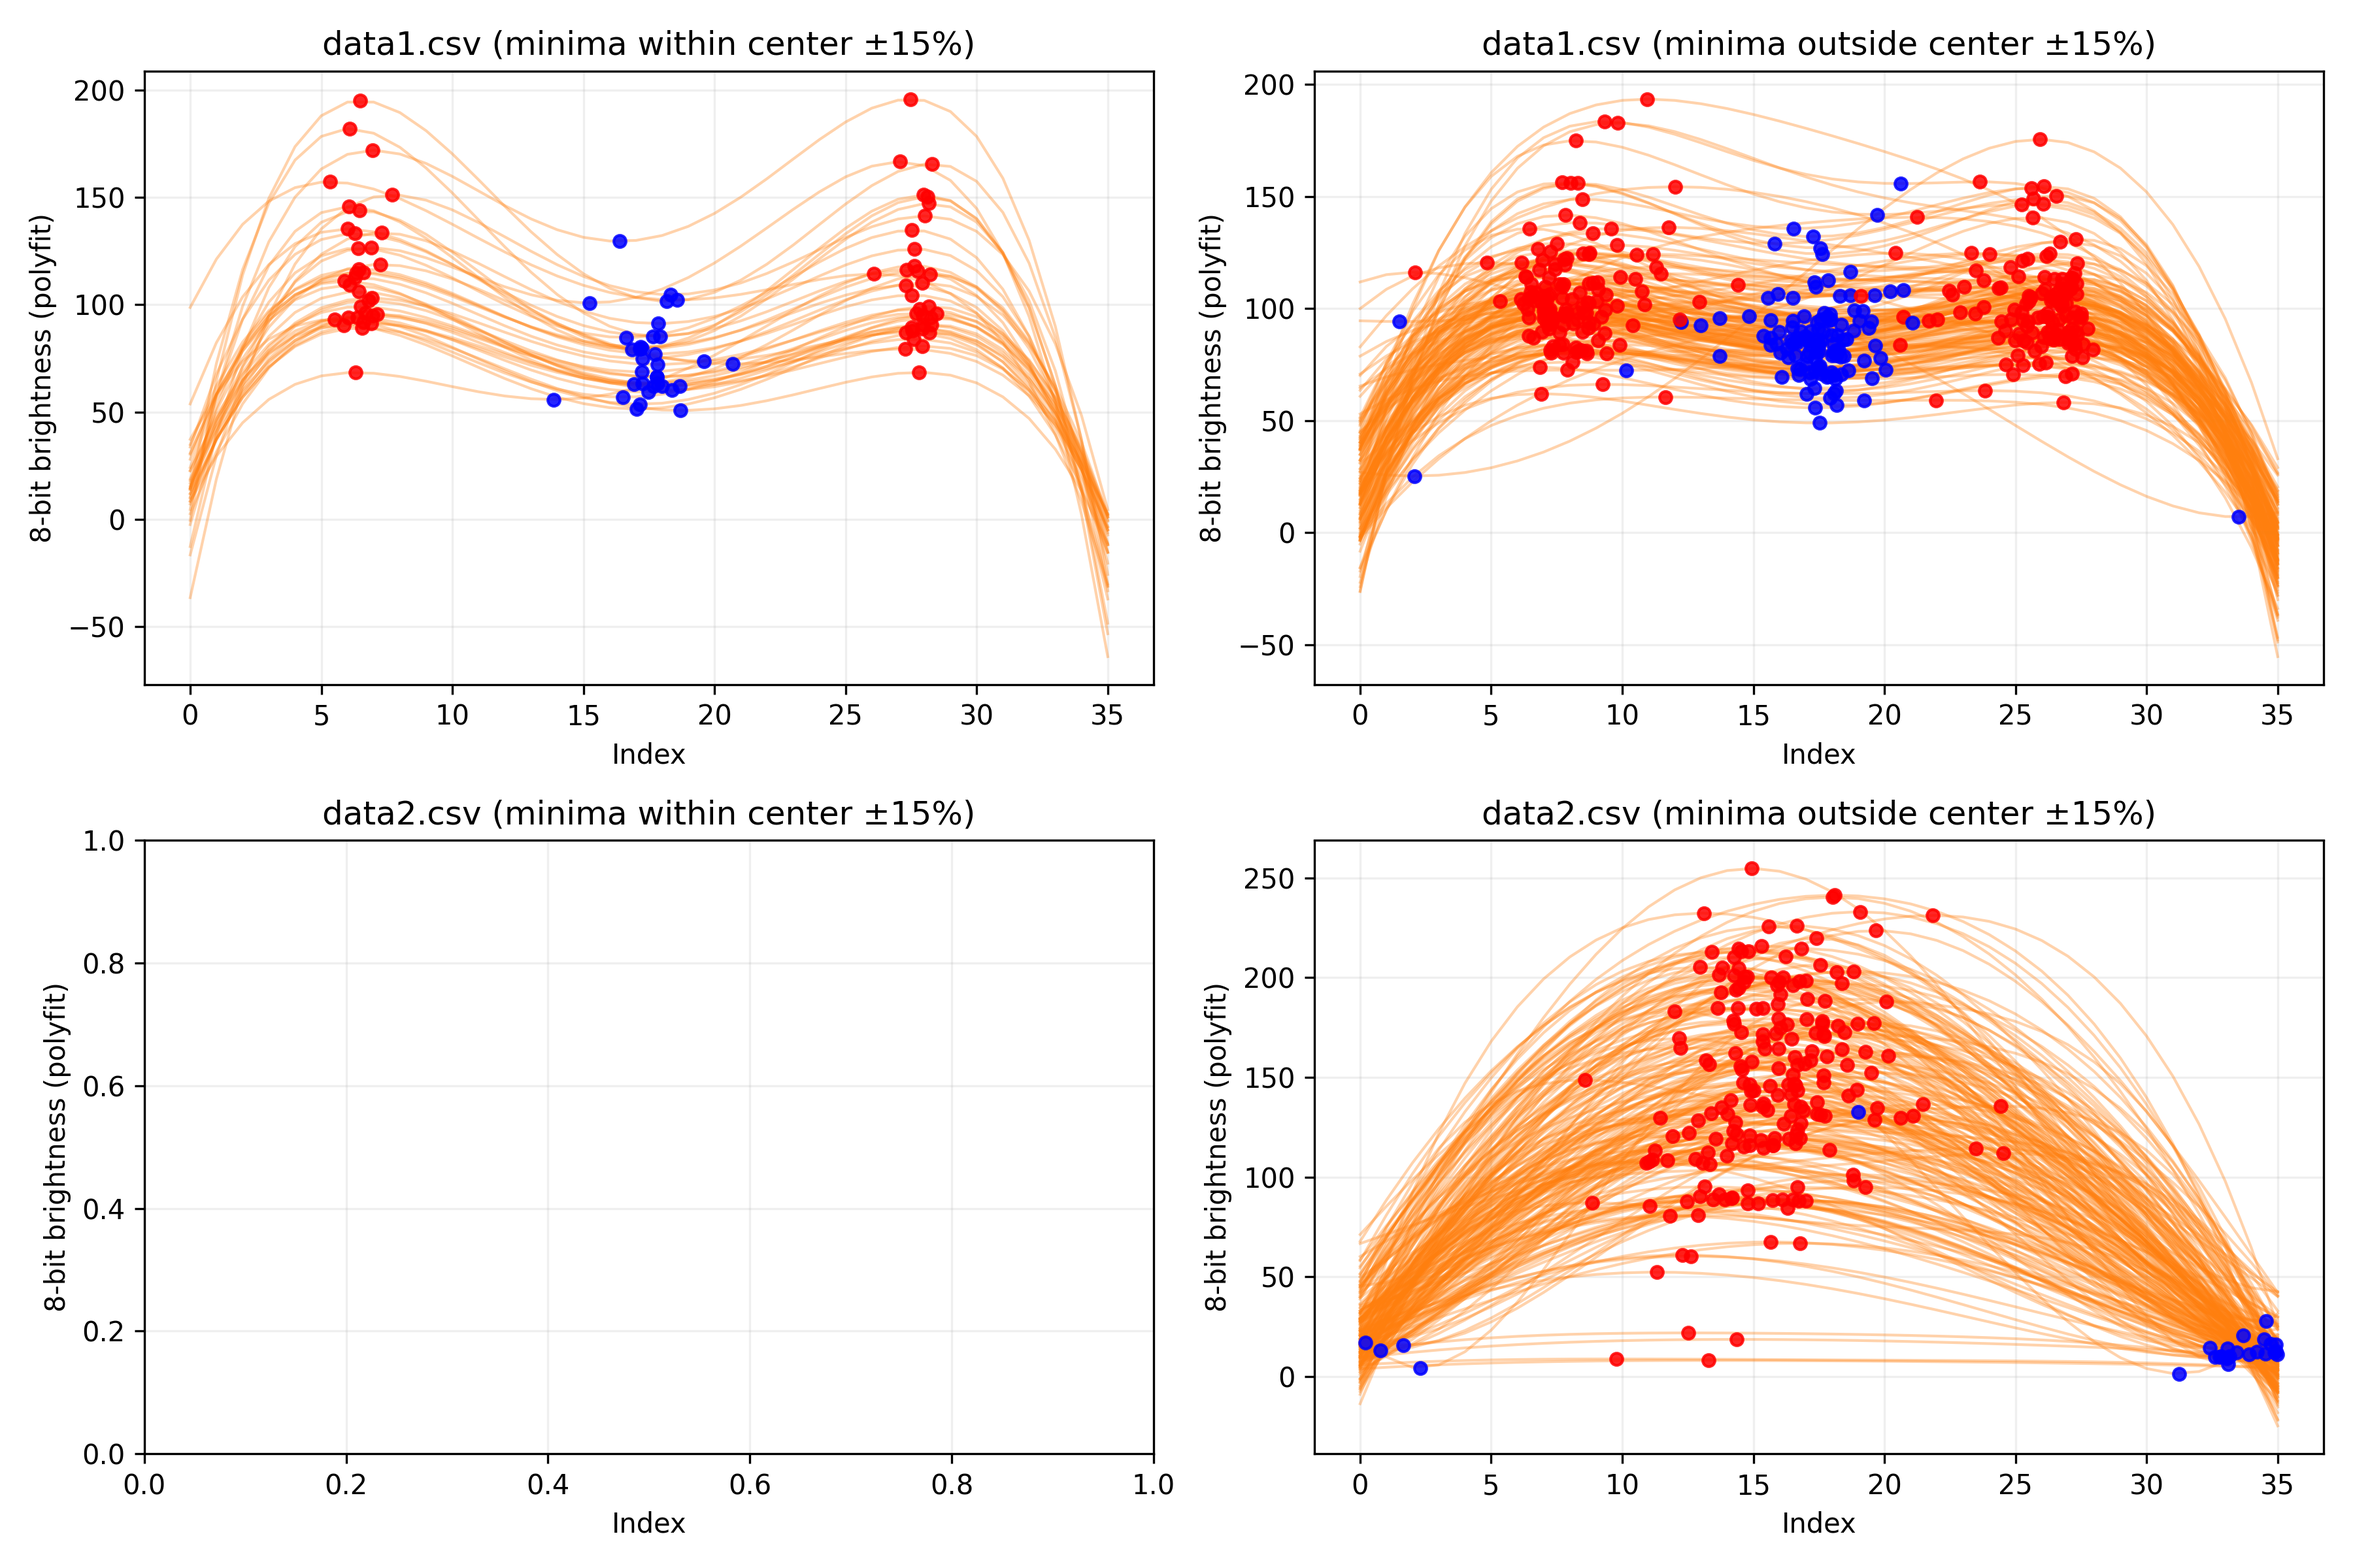
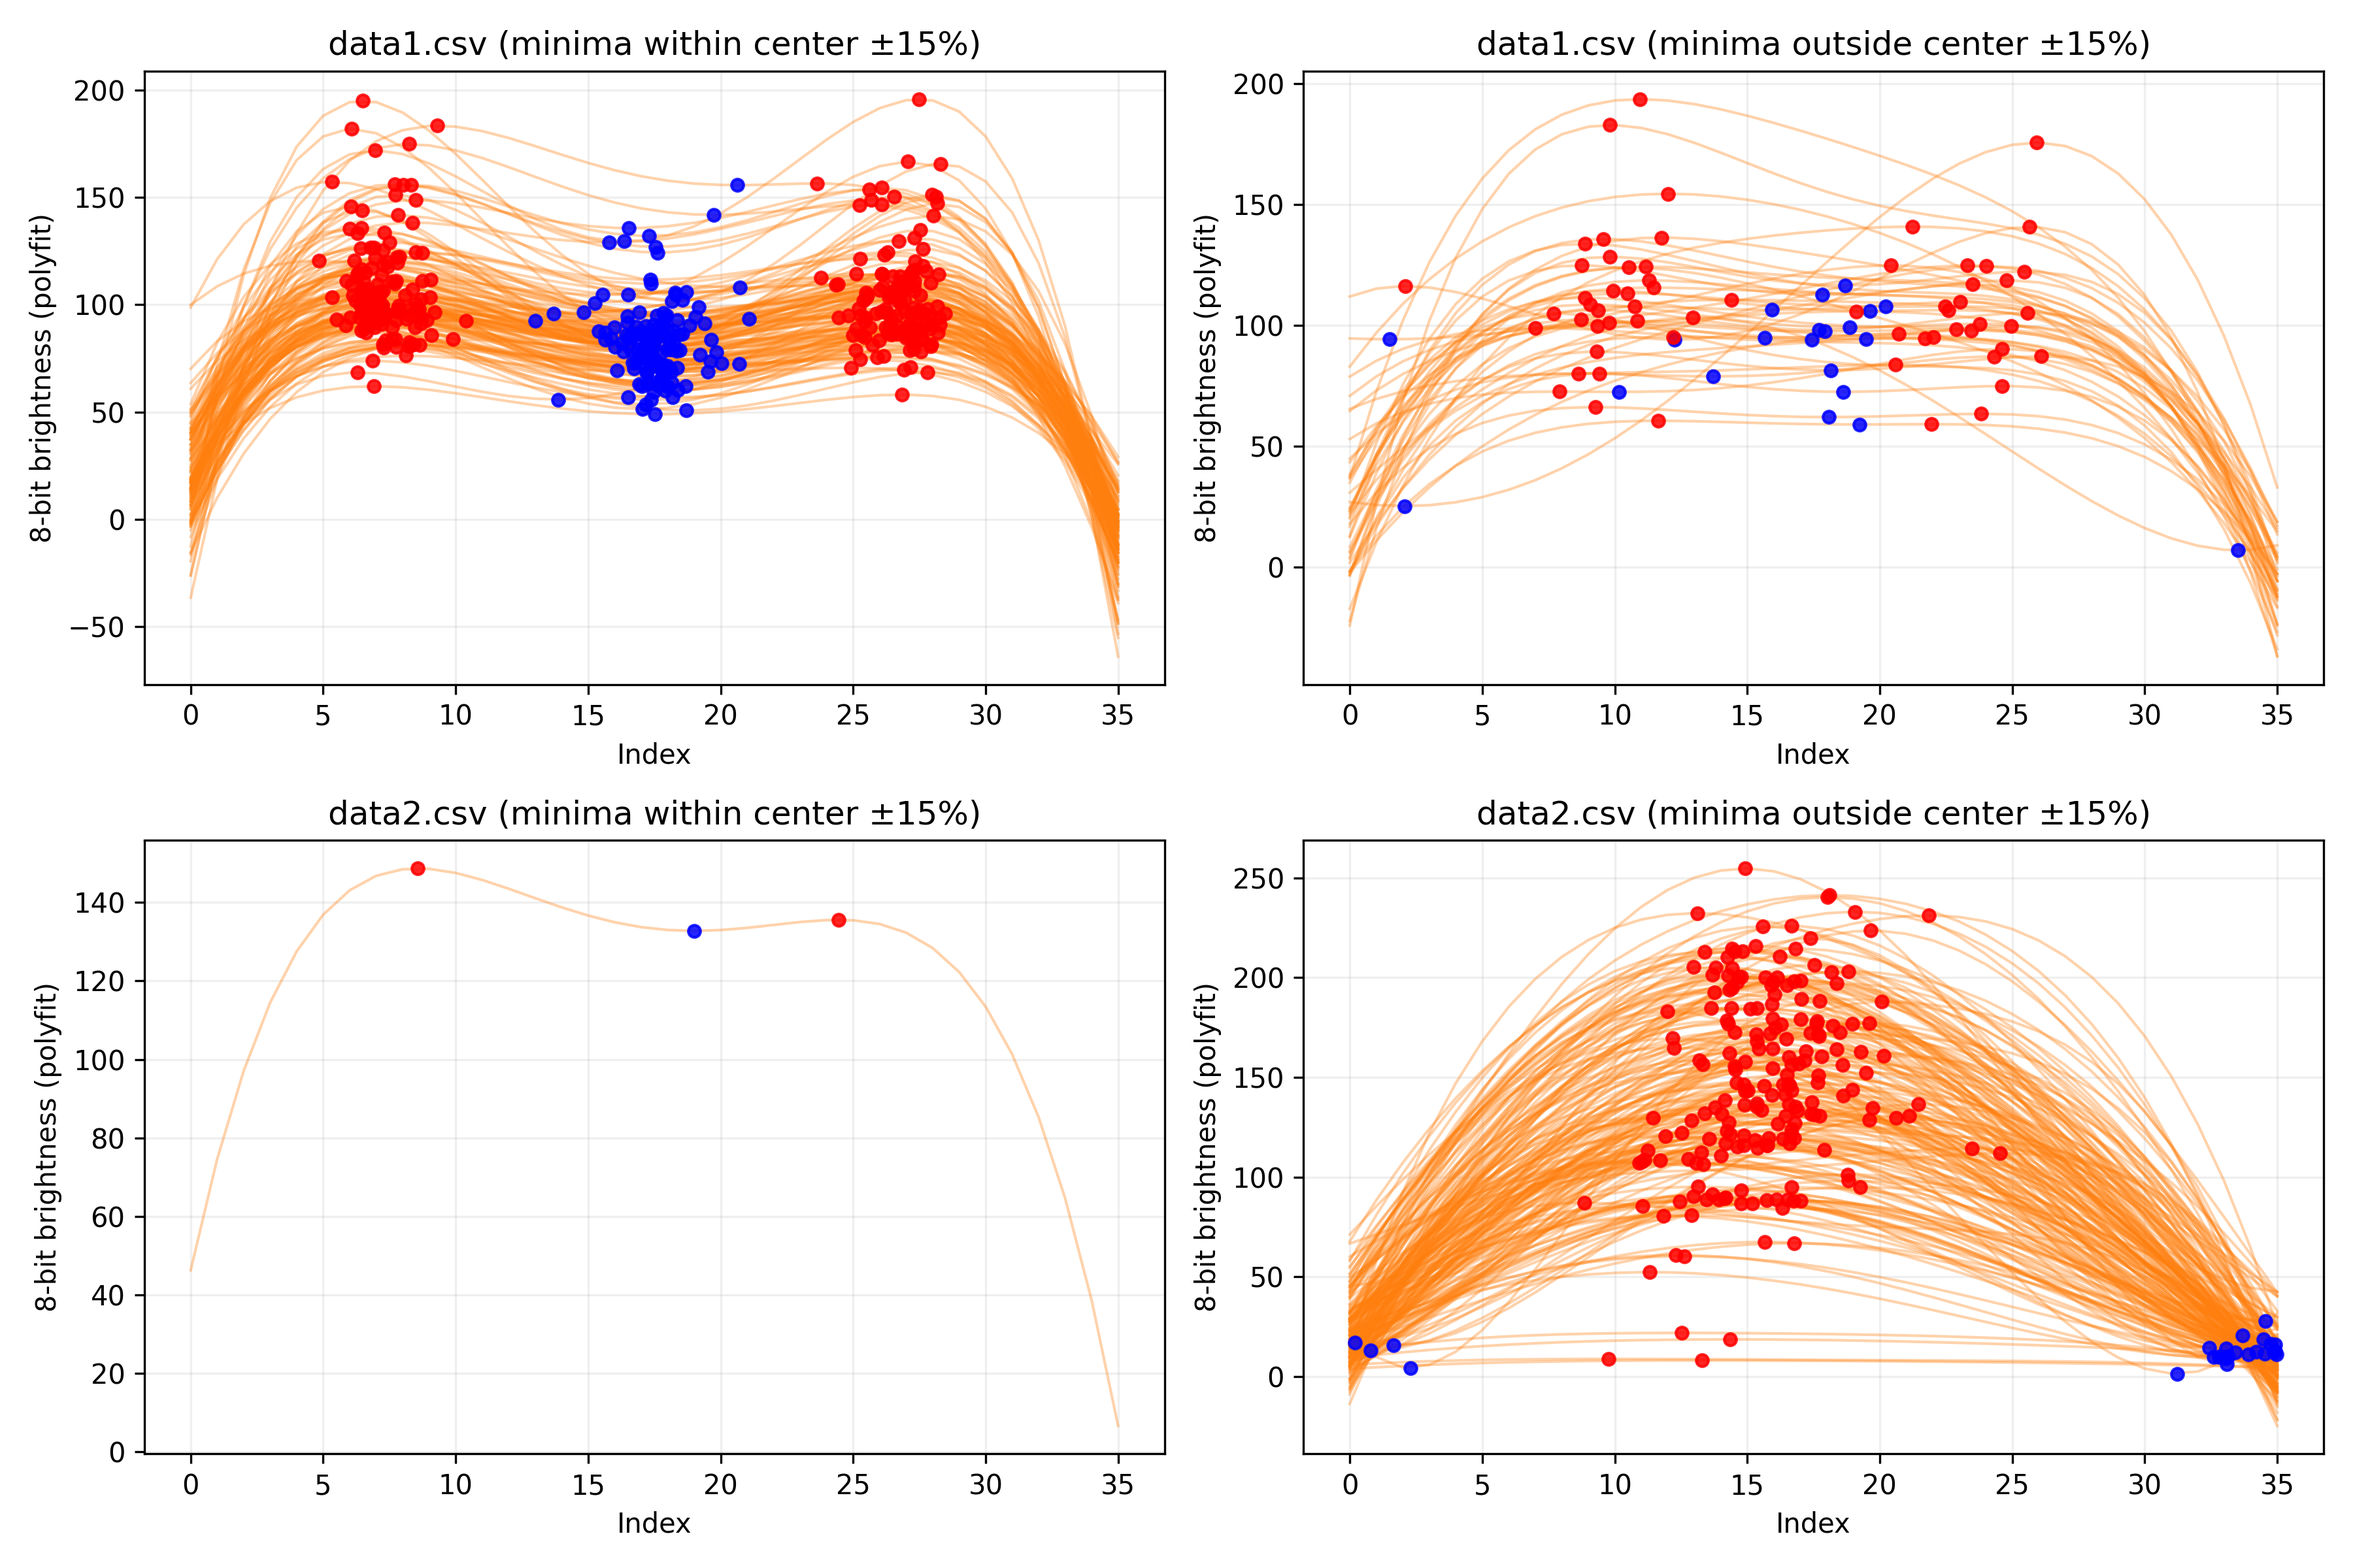
T

diff --git a/main.py b/main.py
@@ -191,7 +191,7 @@ class HU:
         output_path: str = "overlay_polyfit_extrema.png",
         degree: int = 4,
         center_ratio: float = 0.15,
-        max_to_min_ratio: float = 0.7,
+        max_to_min_ratio: float = 0.9,
     ) -> None:
         series_list = [cls.read_even_lines(path) for path in data_paths]
         nrows = len(data_paths)
